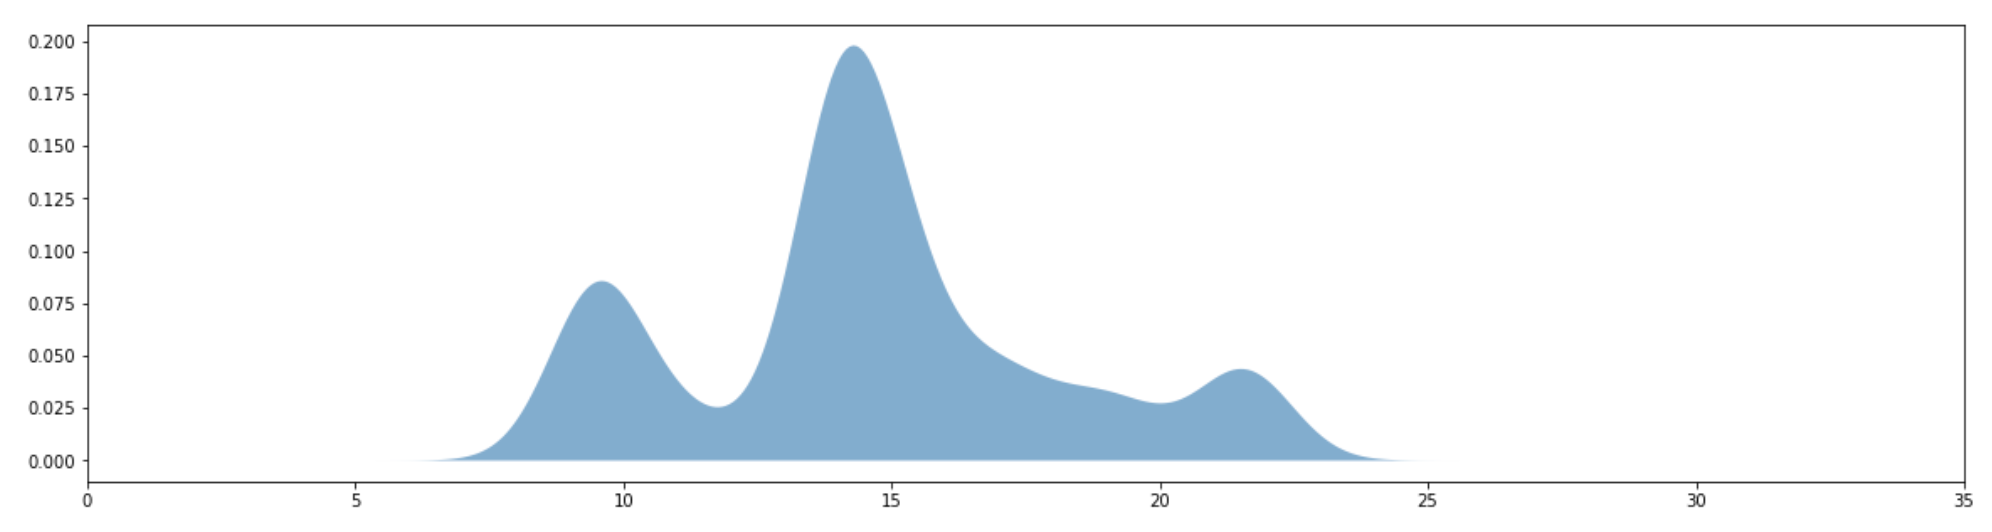
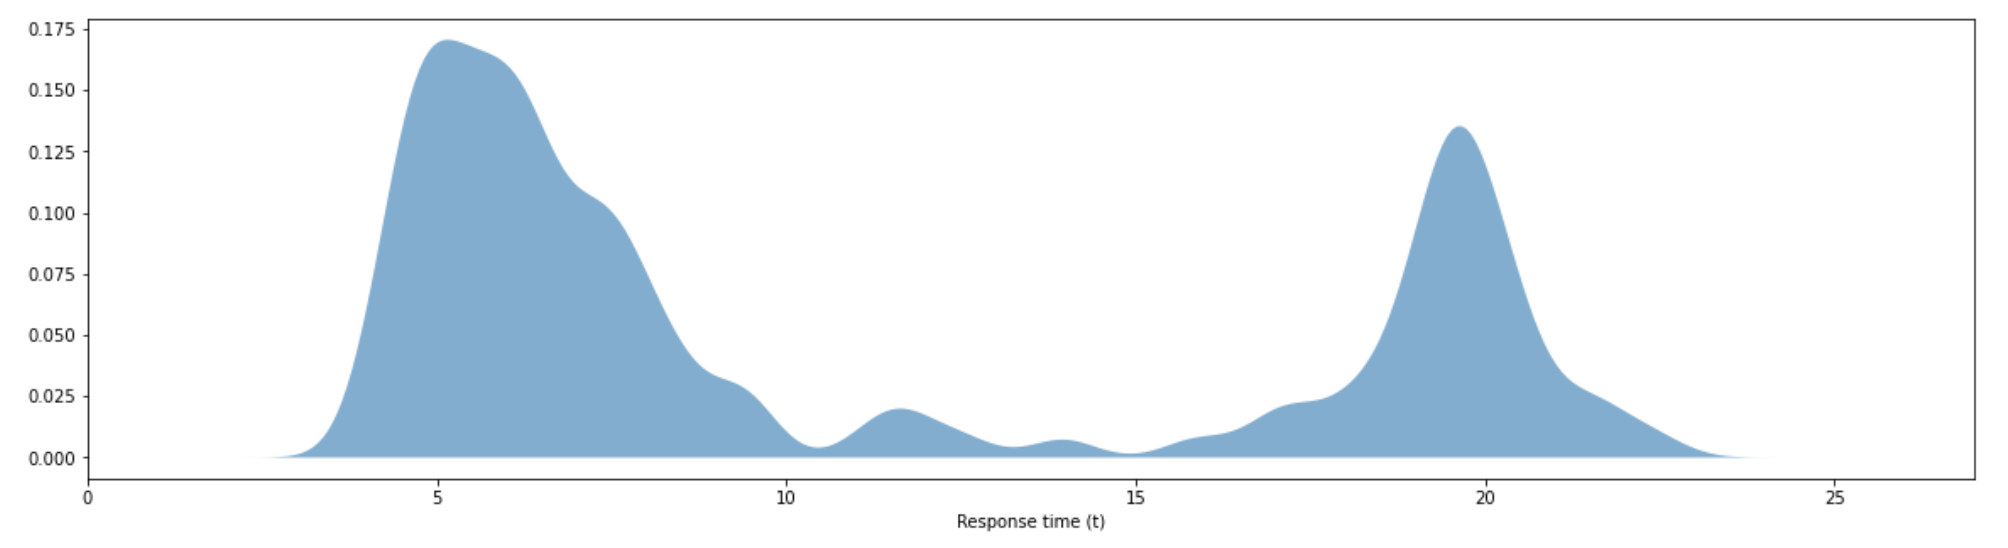
fixed some explaination

diff --git a/_posts/2022-06-12-simulation.md b/_posts/2022-06-12-simulation.md
@@ -167,8 +167,8 @@ a bit easier.
 
 ![Resulting time to serve](/assets/acc_sim/resulting_tts.png)
 
-The resulting diagram is the response time given 200 iteration with the logic we described. We can see that most of the density of this KDE
-is clustered near 7 minute to 17 minute response. However, we see a spike at 23 minute response time, this is the effect of $$\epsilon$$ 
+The resulting diagram is the response time given 50 iteration with the logic we described. We can see that most of the density of this KDE
+is clustered near 2.5 minutes to 10 minute response. However, we see a spike at 20 minute response time, this is the effect of $$\epsilon$$ 
 that we drew whenever all hospitals had their vehicles associated with other events. This is the worst case part. One way to control this 
 from not happening is have more emergency vehicles at your disposal. However, by how much and when is a post for another day and another time.
 
